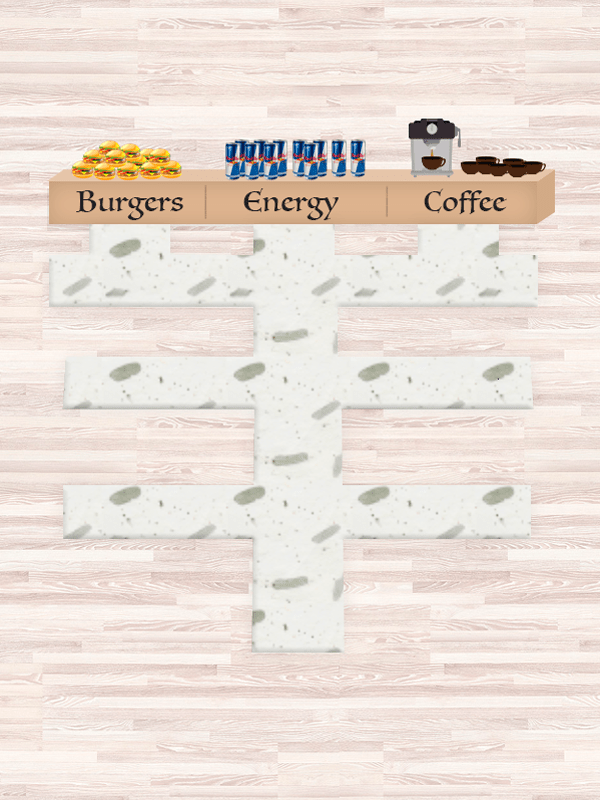
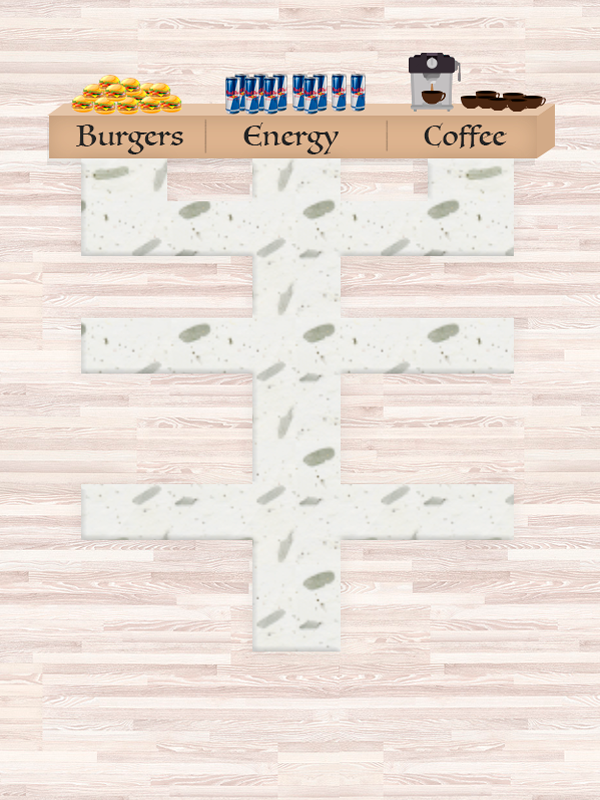
Update

diff --git a/src/scenes/GameScene.js b/src/scenes/GameScene.js
@@ -1,4 +1,5 @@
 import 'phaser';
+import WorkPlace from '../actors/work-place';
 import Worker from '../actors/worker';
 import Table from '../actors/table';
 import Manager from '../actors/manager';
@@ -49,8 +50,8 @@ export default class GameScene extends Phaser.Scene {
         // }, 2000);
     }
 
-    update(){
-	    this.view.update();
+    update() {
+        this.view.update();
     }
 }
 
@@ -68,8 +69,9 @@ class View extends Container {
         this.add(manager.sprite);
         this.add(stuff.sprite);
 
-        this.createWorkers();
-        this.createTables();
+        this.createWorkPlaces();
+        // this.createWorkers();
+        // this.createTables();
 
         this.scene.physics.add.collider(manager.sprite, stuff.sprite, () => {
             let burger = new Hamburger(this.scene, manager.sprite.x, manager.sprite.y);
@@ -86,6 +88,100 @@ class View extends Container {
         this.manager.update();
         this.list.forEach(item => {
             item.update();
+        });
+    }
+
+    createWorkPlaces() {
+        const scene = this.scene;
+        const manager = this.manager;
+        const configs = [
+            {
+                x: 100,
+                y: 248,
+                worker: {
+                    x: 10,
+                    y: -30,
+                    spriteName: 'worker1',
+                    width: 50,
+                    height: 130,
+                    characteristics: {
+                        foodLossRate: 700,
+                        energyLossRate: 400
+                    }
+                },
+
+                table: {
+                    spriteName: 'table1'
+                }
+            },
+            {
+                x: 500,
+                y: 252,
+                worker: {
+                    x: 6,
+                    y: -30,
+                    spriteName: 'worker2',
+                    width: 50,
+                    height: 130,
+                    characteristics: {
+                        foodLossRate: 500,
+                        energyLossRate: 600
+                    }
+                },
+
+                table: {
+                    spriteName: 'table2'
+                }
+            },
+            {
+                x: 100,
+                y: 420,
+                worker: {
+                    x: 10,
+                    y: -20,
+                    spriteName: 'worker3',
+                    width: 50,
+                    height: 110,
+                    characteristics: {
+                        foodLossRate: 300,
+                        energyLossRate: 800
+                    }
+                },
+
+                table: {
+                    spriteName: 'table3'
+                }
+            },
+            {
+                x: 500,
+                y: 416,
+                worker: {
+                    y: -30,
+                    spriteName: 'worker4',
+                    width: 50,
+                    height: 130,
+                    characteristics: {
+                        foodLossRate: 900,
+                        energyLossRate: 200
+                    }
+                },
+
+                table: {
+                    spriteName: 'table4'
+                }
+            }
+        ];
+
+        configs.forEach((config) => {
+            config.y += 90;
+
+            const workPlace = new WorkPlace(scene, config);
+
+            this.add(workPlace);
+
+            scene.physics.add.collider(manager.sprite, workPlace.table, () => {
+                manager.interact(manager, workPlace);
+            });
         });
     }
 

diff --git a/src/actors/worker.js b/src/actors/worker.js
@@ -2,8 +2,8 @@ import Phaser from 'phaser';
 
 export default class Worker extends Phaser.GameObjects.Sprite {
 	constructor(scene, {
-		x,
-		y,
+		x = 0,
+		y = 0,
 		width,
 		height,
 		spriteName,
@@ -56,9 +56,7 @@ export default class Worker extends Phaser.GameObjects.Sprite {
 		}
 	}
 
-	update(time, delta) {
-		super.preUpdate(time, delta);
-
+	update() {
 		switch (this._state) {
 			case 'live': {
 				if (this._task > 0) {
@@ -141,7 +139,7 @@ export default class Worker extends Phaser.GameObjects.Sprite {
 	}
 
 	_setHungry(value) {
-		this._energy = Math.max(value, 100);
+		this._hunger = Math.max(value, 100);
 	}
 
 	_setEnergy(value) {

diff --git a/src/actors/work-place.js b/src/actors/work-place.js
@@ -1,0 +1,25 @@
+import 'phaser';
+import Worker from './worker';
+import Table from './table';
+
+export default class WorkPlace extends Phaser.GameObjects.Container {
+    constructor(scene, config) {
+        super(scene);
+
+        const worker = this.worker = new Worker(scene, config.worker);
+        const table = this.table = new Table(scene, config.table);
+
+        this.add(worker);
+        this.add(table);
+
+        this.setPosition(config.x, config.y);
+    }
+
+    update() {
+        this.worker.update();
+    }
+
+    consume(params) {
+        return this.worker.consume(params);
+    }
+}

diff --git a/src/actors/table.js b/src/actors/table.js
@@ -1,7 +1,7 @@
 import Phaser from 'phaser';
 
 export default class Table extends Phaser.GameObjects.Sprite {
-	constructor(scene, { x, y, spriteName }) {
+	constructor(scene, { x = 0, y = 0, spriteName }) {
 		super(scene, x, y);
 
 		this.setTexture(spriteName);
@@ -10,9 +10,5 @@ export default class Table extends Phaser.GameObjects.Sprite {
 
         scene.physics.add.existing(this);
         this.body.immovable = true;
-	}
-
-	consume() {
-
 	}
 }

diff --git a/src/index.js b/src/index.js
@@ -18,7 +18,7 @@ const config = {
     physics: {
         default: 'arcade',
         arcade: {
-            debug: true
+            // debug: true
         }
     },
     scene: [
